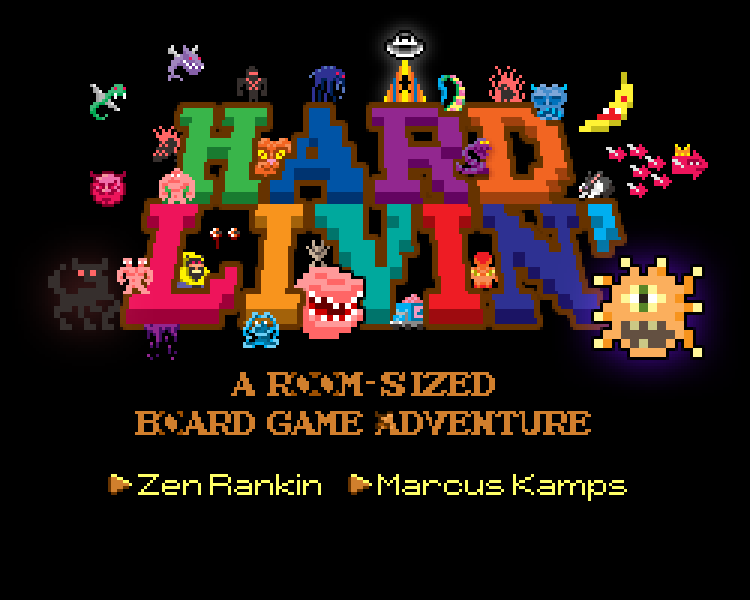
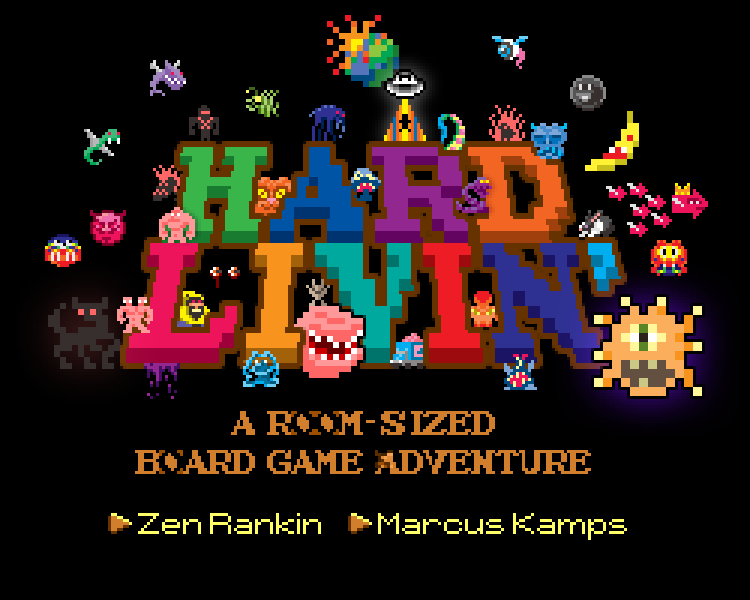
Updated image, fix overlay css, change title html a bit

diff --git a/hardlivin/static/title.css b/hardlivin/static/title.css
@@ -3,20 +3,21 @@ body { background: #000; color: #ff6; }
 a { color: #c63; text-decoration: none; }
 a:hover { border-bottom: 1px dotted #c63; }
 
-.title { width: 750px; margin: 75px auto 0; position: relative; z-index: 1; }
-.title div { background-image: url('/static/title.png'); position: absolute; z-index: 2; }
+.title { width: 750px; margin: 50px auto 0; position: relative; z-index: 1; }
+.title div { background: url('/static/title.png'); position: absolute; z-index: 2; }
 .title div:hover { background-image: url('/static/title-overlay.png'); }
-.title .h { width: 105px; height: 96px; left: 159px; top: 108px; background-position: -159px -108px; }
-.title .a { width: 93px; height: 96px; left: 267px; top: 108px; background-position: -267px -108px; }
-.title .r { width: 96px; height: 96px; left: 369px; top: 108px; background-position: -369px -108px; }
-.title .d { width: 102px; height: 96px; left: 465px; top: 108px; background-position: -465px -108px; }
-.title .l { width: 111px; height: 120px; left: 123px; top: 204px; background-position: -123px -204px; }
-.title .i1 { width: 60px; height: 120px; left: 240px; top: 204px; background-position: -240px -204px; }
-.title .v { width: 99px; height: 120px; left: 312px; top: 204px; background-position: -312px -204px; }
-.title .i2 { width: 60px; height: 120px; left: 420px; top: 204px; background-position: -420px -204px; }
-.title .n { width: 120px; height: 120px; left: 477px; top: 204px; background-position: -477px -204px; }
-.title .ap { width: 33px; height: 48px; left: 585px; top: 204px; background-position: -585px -204px;
+.title .h { width: 105px; height: 96px; left: 162px; top: 147px; background-position: -162px -147px; }
+.title .a { width: 93px; height: 96px; left: 270px; top: 147px; background-position: -270px -147px; }
+.title .r { width: 96px; height: 96px; left: 372px; top: 147px; background-position: -372px -147px; }
+.title .d { width: 102px; height: 96px; left: 468px; top: 147px; background-position: -468px -147px; }
+.title .l { width: 111px; height: 120px; left: 126px; top: 243px; background-position: -126px -243px; }
+.title .i1 { width: 60px; height: 120px; left: 243px; top: 243px; background-position: -243px -243px; }
+.title .v { width: 99px; height: 120px; left: 315px; top: 243px; background-position: -315px -243px; }
+.title .i2 { width: 60px; height: 120px; left: 423px; top: 243px; background-position: -423px -243px; 
+	z-index: 3; }
+.title .n { width: 120px; height: 120px; left: 480px; top: 243px; background-position: -480px -243px; }
+.title .ap { width: 33px; height: 48px; left: 588px; top: 243px; background-position: -588px -243px;
 	z-index: 3; }
 
-p { text-align: center; }
-
+p { font-size: 18px; text-align: center; }
+.large { margin-top: 0; font-size: 24px; }

diff --git a/hardlivin/templates/title.html b/hardlivin/templates/title.html
@@ -19,7 +19,7 @@
 			<div class='n'></div>
 			<div class='ap'></div>
 		</div>
-		<p>Premiering at <a href='http://www.hashtaggallery.com' target='_blank'>#HASHTAG Gallery</a>, February 8&ndash;23, 2014</p>
-		<p>801 Dundas St. W., Toronto</p>
+		<p class='large'>February 8 &ndash; 23, 2014</p>
+		<p><a href='http://www.hashtaggallery.com' target='_blank'>#HASHTAG Gallery</a>, 801 Dundas St. W., Toronto</p>
 	</body>
 </html>
